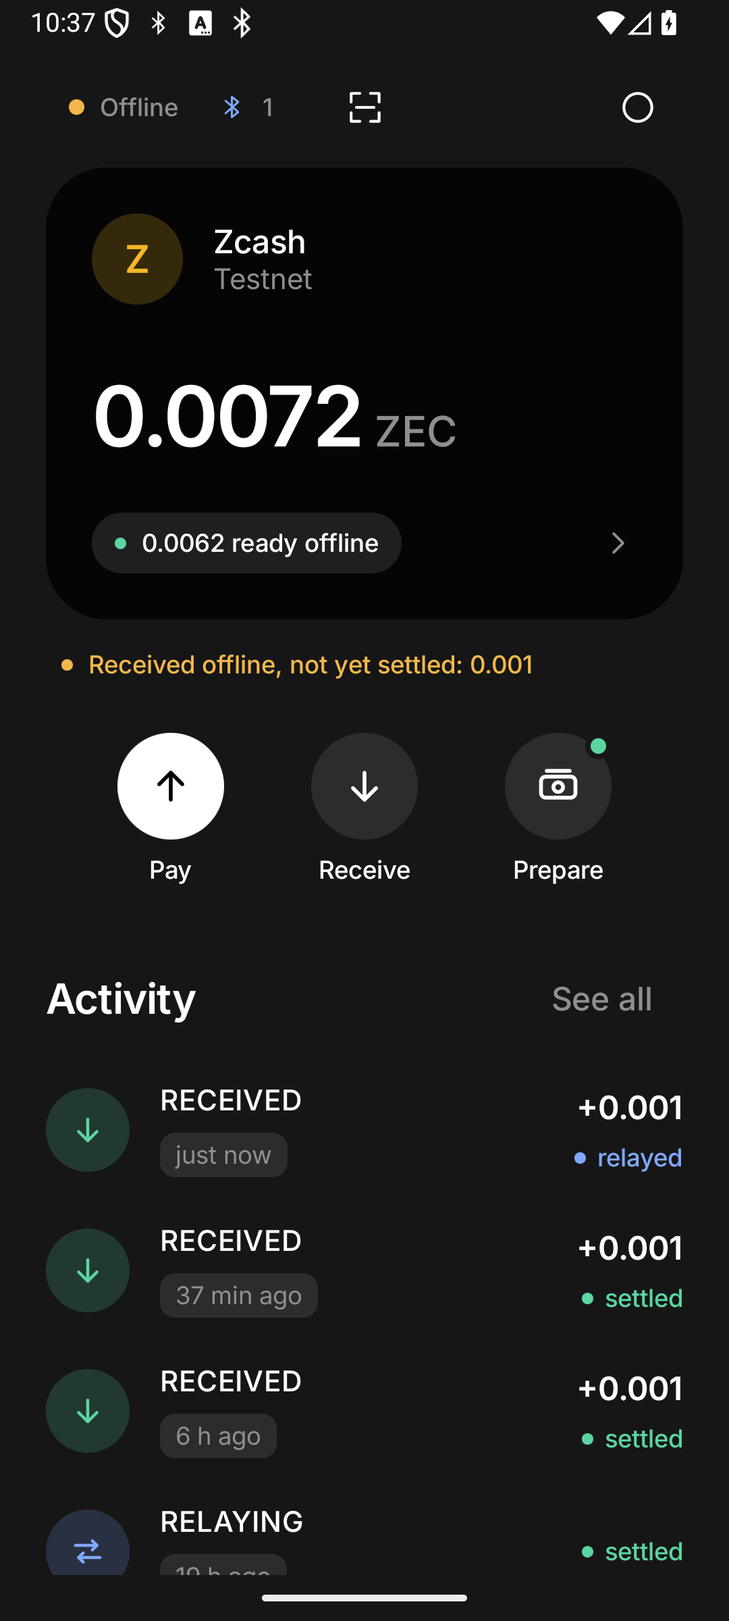
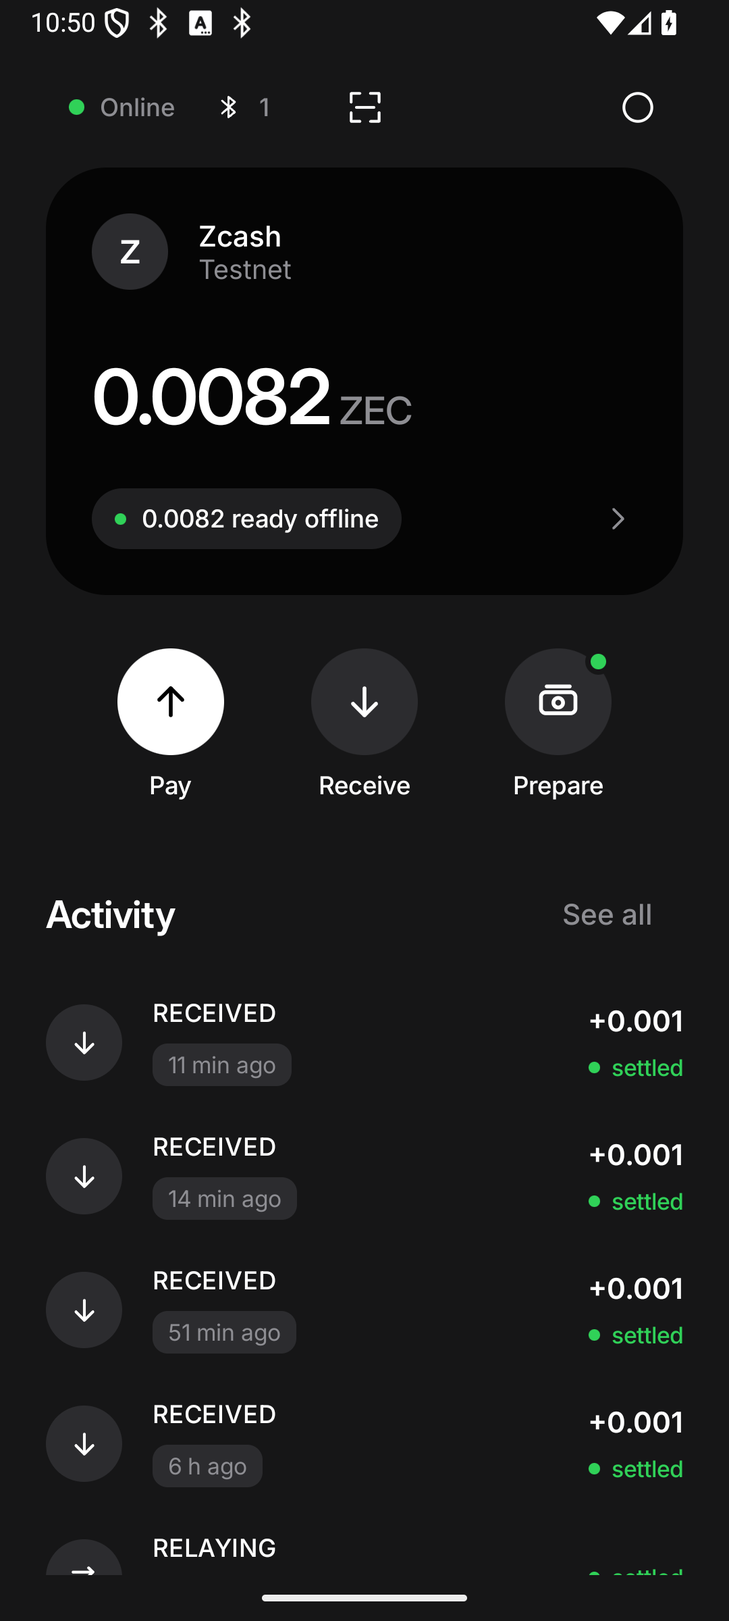
Phase 5: smaller type, Inter Display, two-colour palette, spaced keypad
Amounts 48/40, titles 28/20, text 15/14/13/12. Large sizes use Inter's
display optical size (opsz 32). Only greys, white, one green, one red.
Pay doesn't scroll: the keypad spreads over the free height and the
button sits 24 dp above the nav bar. JVM 59/59, P2.G4 pass.

diff --git a/android/app/src/main/java/dev/offlinezec/wallet/ui/MainActivity.kt b/android/app/src/main/java/dev/offlinezec/wallet/ui/MainActivity.kt
@@ -193,7 +193,7 @@ fun SetupScreen(c: AppController) {
         Spacer(Modifier.height(8.dp))
         Text("Zcash that works\nwithout signal", style = MaterialTheme.typography.displaySmall)
         Text("Pay phone to phone, settle later.", style = MaterialTheme.typography.bodyLarge, color = Ink.dim)
-        FactPill(bg = Ink.card) { Dot(Ink.amber, 6.dp); Text("Testnet", style = MaterialTheme.typography.labelMedium) }
+        FactPill(bg = Ink.card) { Dot(Ink.dim, 6.dp); Text("Testnet", style = MaterialTheme.typography.labelMedium) }
         Spacer(Modifier.height(32.dp))
         if (!restoring) {
             PrimaryButton("Create wallet", { c.createWallet() }, Modifier.testTag("create_wallet"))
@@ -259,7 +259,7 @@ fun syncText(s: SyncInfo): String = when {
 fun isOffline(s: SyncInfo) = s.networkHeight == null || s.status == "DISCONNECTED"
 
 /** "0.0036 ZEC" with the unit smaller and grey. */
-fun zecText(zats: Long, unitSize: Int = 22): AnnotatedString = buildAnnotatedString {
+fun zecText(zats: Long, unitSize: Int = 20): AnnotatedString = buildAnnotatedString {
     append(zec(zats))
     withStyle(SpanStyle(color = Ink.dim, fontSize = unitSize.sp, fontWeight = FontWeight.Medium, letterSpacing = 0.sp)) { append(" ZEC") }
 }
@@ -288,9 +288,9 @@ fun HomeScreen(c: AppController, go: (Screen, Boolean) -> Unit) {
         val incoming = incomingUnsettled(received)
         if (incoming > 0) Row(Modifier.padding(start = 8.dp, top = 16.dp), verticalAlignment = Alignment.CenterVertically,
             horizontalArrangement = Arrangement.spacedBy(8.dp)) {
-            Dot(Ink.amber, 6.dp)
+            Dot(Ink.text, 6.dp)
             Text("Received offline, not yet settled: ${zec(incoming)}", style = MaterialTheme.typography.labelMedium,
-                color = Ink.amber, modifier = Modifier.testTag("balance_incoming"))
+                color = Ink.dim, modifier = Modifier.testTag("balance_incoming"))
         }
         val lost = received.filter { it.conflicted }
         if (lost.isNotEmpty()) FactPill(Modifier.fillMaxWidth().padding(top = 8.dp), bg = Ink.redCard) {
@@ -305,8 +305,8 @@ fun HomeScreen(c: AppController, go: (Screen, Boolean) -> Unit) {
             ActionButton(Glyph.Up, "Pay", { c.clearPay(); go(Screen.Pay, false) }, Modifier.testTag("nav_pay"), primary = true)
             ActionButton(Glyph.Down, "Receive", { c.resetReceive(); go(Screen.Receive, false) }, Modifier.testTag("nav_receive"))
             val badge = when (val p = prep) {
-                is PrepareStatus.Waiting -> Ink.amber
-                is PrepareStatus.Idle -> if (p.ready) Ink.green else if (p.notes.isEmpty()) null else Ink.amber
+                is PrepareStatus.Waiting -> Ink.text
+                is PrepareStatus.Idle -> if (p.ready) Ink.green else if (p.notes.isEmpty()) null else Ink.text
                 null -> null
             }
             ActionButton(Glyph.Notes, "Prepare", { go(Screen.Prepare, false) }, Modifier.testTag("nav_prepare"), badge = badge)
@@ -332,12 +332,12 @@ fun TopBar(c: AppController, sync: SyncInfo, go: (Screen, Boolean) -> Unit) {
     Box(Modifier.fillMaxWidth().height(64.dp)) {
         Row(Modifier.align(Alignment.CenterStart).padding(start = 12.dp), verticalAlignment = Alignment.CenterVertically,
             horizontalArrangement = Arrangement.spacedBy(8.dp)) {
-            Dot(if (isOffline(sync)) Ink.amber else Ink.green, 8.dp)
+            Dot(if (isOffline(sync)) Ink.dim else Ink.green, 8.dp)
             Text(syncText(sync), style = MaterialTheme.typography.labelMedium, color = Ink.dim, maxLines = 1, modifier = Modifier.testTag("sync_status"))
             // Bluetooth relay, as a glyph and the number of phones in reach.
             val on = m.permitted && m.bluetooth && m.running
             Spacer(Modifier.width(4.dp))
-            LineIcon(Glyph.Bluetooth, size = 16.dp, color = if (on) Ink.blue else Ink.faint)
+            LineIcon(Glyph.Bluetooth, size = 16.dp, color = if (on) Ink.text else Ink.faint)
             Text(if (on) "${m.peers}" else "off", style = MaterialTheme.typography.labelMedium, color = Ink.dim, modifier = Modifier.testTag("mesh_status"))
         }
         IconButton(Glyph.Scan, { c.clearPay(); go(Screen.Pay, true) }, tag = "nav_scan", filled = false, modifier = Modifier.align(Alignment.Center))
@@ -351,7 +351,7 @@ fun HeroCard(sync: SyncInfo, split: BalanceSplit) {
     var open by rememberSaveable { mutableStateOf(false) }
     DarkCard(color = Ink.black, padding = 24.dp, gap = 0.dp, onClick = { open = !open }) {
         Row(verticalAlignment = Alignment.CenterVertically, horizontalArrangement = Arrangement.spacedBy(16.dp)) {
-            ZecAvatar(48.dp)
+            ZecAvatar(40.dp)
             Column {
                 Text("Zcash", style = MaterialTheme.typography.titleMedium)
                 Text("Testnet", style = MaterialTheme.typography.bodyMedium, color = Ink.dim)
@@ -434,12 +434,7 @@ fun FilterChips(filter: PaymentFilter, set: (PaymentFilter) -> Unit) {
 
 fun PaymentRow.glyph() = when (direction) { Direction.SENT -> Glyph.Up; Direction.RECEIVED -> Glyph.Down; Direction.RELAY -> Glyph.Relay }
 
-fun PaymentRow.tint() = when {
-    status == PayStatus.CONFLICTED || status == PayStatus.REJECTED -> Ink.red
-    direction == Direction.SENT -> Ink.text
-    direction == Direction.RECEIVED -> Ink.green
-    else -> Ink.blue
-}
+fun PaymentRow.tint() = if (status == PayStatus.CONFLICTED || status == PayStatus.REJECTED) Ink.red else Ink.text
 
 fun PaymentRow.title() = when (direction) {
     Direction.SENT -> "Sent"
@@ -454,7 +449,7 @@ fun PaymentRow.value(): String? = amount?.let { (if (direction == Direction.SENT
 fun PaymentListRow(r: PaymentRow, now: Long, modifier: Modifier = Modifier, ageTag: String? = null, onClick: (() -> Unit)? = null) {
     val bad = r.status == PayStatus.CONFLICTED || r.status == PayStatus.REJECTED
     ListRow(
-        avatar = { Avatar(r.glyph(), r.tint(), 44.dp) },
+        avatar = { Avatar(r.glyph(), r.tint(), 40.dp) },
         title = r.title(), tag = ago(r.since, now), tagModifier = if (ageTag != null) Modifier.testTag(ageTag) else Modifier,
         value = r.value(), valueColor = if (bad) Ink.red else Ink.text,
         status = { StatusText(r.status, Modifier.testTag("status_${r.txid.take(16)}")) },
@@ -486,7 +481,7 @@ fun PrepareScreen(c: AppController, back: () -> Unit) {
                 is PrepareStatus.Idle -> {
                     Text(zecText(p.notes.sumOf { it.value }), style = MaterialTheme.typography.displayMedium, maxLines = 1)
                     Row(verticalAlignment = Alignment.CenterVertically, horizontalArrangement = Arrangement.spacedBy(8.dp)) {
-                        val color = if (p.ready) Ink.green else if (p.notes.isEmpty()) Ink.dim else Ink.amber
+                        val color = if (p.ready) Ink.green else Ink.dim
                         Dot(color, 6.dp)
                         Text(if (p.ready) "Ready" else if (p.notes.isEmpty()) "Not prepared" else "Confirming",
                             style = MaterialTheme.typography.titleSmall, color = color, modifier = Modifier.testTag("prepare_state"))
@@ -509,7 +504,7 @@ fun PrepareScreen(c: AppController, back: () -> Unit) {
                         Text("${zec(value)} ZEC × ${notes.size}", style = MaterialTheme.typography.titleMedium,
                             modifier = Modifier.weight(1f).testTag("denomination"))
                         Text(if (ok) "ready" else "$conf/$SPEND_CONFIRMATIONS", style = MaterialTheme.typography.labelMedium,
-                            color = if (ok) Ink.green else Ink.amber)
+                            color = if (ok) Ink.green else Ink.dim)
                     }
                 }
             }
@@ -561,7 +556,7 @@ fun PayScreen(c: AppController, scanFirst: Boolean, prepare: () -> Unit, back: (
     val ready = balanceSplit(notes, sync.networkHeight ?: sync.scannedHeight).available
     val zats = parseZec(amount)
     val building = pay is PayState.Building
-    Page(gap = if (small) 8.dp else 16.dp) {
+    Page(scroll = false, gap = if (small) 8.dp else 16.dp) {
         SheetTop(back) {
             if (!withMemo) IconButton(Glyph.Memo, { withMemo = true }, tag = "pay_add_memo", filled = false)
         }
@@ -575,7 +570,7 @@ fun PayScreen(c: AppController, scanFirst: Boolean, prepare: () -> Unit, back: (
                     maxLines = 1, color = if (amount.isEmpty()) Ink.faint else if (over) Ink.red else Ink.text, modifier = Modifier.testTag("pay_amount"),
                 )
                 val (sub, color) = when {
-                    ready == 0L -> "Nothing ready offline" to Ink.amber
+                    ready == 0L -> "Nothing ready offline" to Ink.dim
                     over -> "Only ${zec(ready)} ready offline" to Ink.red
                     caps.enabled -> "${zec(ready)} ready · limit ${zec(caps.perPayment)}" to Ink.dim
                     else -> "${zec(ready)} ready offline" to Ink.dim
@@ -586,7 +581,7 @@ fun PayScreen(c: AppController, scanFirst: Boolean, prepare: () -> Unit, back: (
         }
         if (scanning) {
             DarkCard(color = Ink.black, border = Ink.line, padding = 8.dp) {
-                CameraScanner(if (small) 220 else 280, inverted = true) { text ->
+                CameraScanner(if (small) 180 else 280, inverted = true) { text ->
                     val addr = text.removePrefix("zcash:").substringBefore('?')
                     if (addr.startsWith("utest") || addr.startsWith("u1")) {
                         to = addr
@@ -595,6 +590,7 @@ fun PayScreen(c: AppController, scanFirst: Boolean, prepare: () -> Unit, back: (
                 }
             }
             TextButton("Cancel", { scanning = false }, Modifier.align(Alignment.CenterHorizontally))
+            Spacer(Modifier.weight(1f))
         } else {
             // The recipient, styled as the design's bank row.
             Row(Modifier.fillMaxWidth(), verticalAlignment = Alignment.CenterVertically, horizontalArrangement = Arrangement.spacedBy(16.dp)) {
@@ -620,7 +616,7 @@ fun PayScreen(c: AppController, scanFirst: Boolean, prepare: () -> Unit, back: (
                 OutlinedTextField(memo, { memo = it }, placeholder = { Text("Memo") }, shape = RoundedCornerShape(16.dp),
                     colors = fieldColors(), singleLine = true, modifier = Modifier.fillMaxWidth().testTag("pay_memo"))
             }
-            Keypad({ k -> amount = keypadInput(amount, k) }, keyHeight = if (small) 48.dp else 64.dp)
+            Keypad({ k -> amount = keypadInput(amount, k) }, Modifier.weight(1f))
         }
         val canPay = !building && zats != null && to.isNotBlank() && zats <= ready
         PrimaryButton(if (building) "Signing…" else "Pay", { c.payOffline(to, zats!!, memo.ifBlank { null }) }, Modifier.testTag("pay_go"), enabled = canPay)
@@ -628,7 +624,7 @@ fun PayScreen(c: AppController, scanFirst: Boolean, prepare: () -> Unit, back: (
         if (building) LinearProgressIndicator(Modifier.fillMaxWidth().clip(Pill), color = Ink.text, trackColor = Ink.raised)
         if (pay is PayState.Failed) Text((pay as PayState.Failed).error, style = MaterialTheme.typography.bodySmall, color = Ink.red,
             modifier = Modifier.testTag("pay_error"))
-        Spacer(Modifier.height(8.dp))
+        Spacer(Modifier.height(if (small) 8.dp else 24.dp))
     }
 }
 
@@ -647,7 +643,7 @@ fun PaymentQr(c: AppController, p: PayState.Ready, back: () -> Unit) {
     Page(bg = Ink.black, gap = 16.dp) {
         SheetTop({ c.clearPay(); back() })
         Column(Modifier.fillMaxWidth(), horizontalAlignment = Alignment.CenterHorizontally, verticalArrangement = Arrangement.spacedBy(8.dp)) {
-            Text(zecText(p.payment.amount, 22), style = MaterialTheme.typography.displayMedium, modifier = Modifier.testTag("pay_summary"))
+            Text(zecText(p.payment.amount), style = MaterialTheme.typography.displayMedium, modifier = Modifier.testTag("pay_summary"))
             Text("fee ${zec(p.payment.fee)} · ${shortTxid(p.payment.txid)}", style = MaterialTheme.typography.bodySmall, modifier = Modifier.testTag("pay_txid"))
         }
         DarkCard(color = Ink.black, border = Ink.line, padding = 24.dp) {
@@ -687,7 +683,7 @@ fun ReceiveScreen(c: AppController, back: () -> Unit) {
                     Text(shortAddress(w.address), style = MaterialTheme.typography.titleMedium, modifier = Modifier.testTag("address"))
                     LineIcon(Glyph.ChevronDown, size = 16.dp, color = Ink.dim)
                 }
-                if (full && !scan) Text(w.address, fontFamily = FontFamily.Monospace, fontSize = 13.sp, color = Ink.dim, modifier = Modifier.padding(horizontal = 8.dp))
+                if (full && !scan) Text(w.address, fontFamily = FontFamily.Monospace, fontSize = 12.sp, color = Ink.dim, modifier = Modifier.padding(horizontal = 8.dp))
                 DarkCard(color = Ink.black, border = Ink.line, padding = if (scan) 8.dp else 32.dp) {
                     Box(Modifier.fillMaxWidth(), contentAlignment = Alignment.Center) {
                         if (!scan) AddressQr(w.address, 240.dp)
@@ -720,7 +716,7 @@ fun ReceiveScreen(c: AppController, back: () -> Unit) {
                 Column(Modifier.fillMaxWidth(), horizontalAlignment = Alignment.CenterHorizontally, verticalArrangement = Arrangement.spacedBy(16.dp)) {
                     Avatar(Glyph.Check, Ink.green, 72.dp)
                     Text(zecText(s.payment.amount), style = MaterialTheme.typography.displayMedium, modifier = Modifier.testTag("received_amount"))
-                    Text(receivedLabel(s.payment), style = MaterialTheme.typography.bodyMedium, color = Ink.amber, modifier = Modifier.testTag("received_status"))
+                    Text(receivedLabel(s.payment), style = MaterialTheme.typography.bodyMedium, color = Ink.dim, modifier = Modifier.testTag("received_status"))
                     s.payment.memo?.let { Text("“$it”", style = MaterialTheme.typography.bodyLarge, textAlign = TextAlign.Center) }
                 }
                 s.warning?.let {

diff --git a/android/app/src/main/java/dev/offlinezec/wallet/ui/Components.kt b/android/app/src/main/java/dev/offlinezec/wallet/ui/Components.kt
@@ -7,6 +7,7 @@ import androidx.compose.foundation.border
 import androidx.compose.foundation.clickable
 import androidx.compose.foundation.layout.Arrangement
 import androidx.compose.foundation.layout.Box
+import androidx.compose.foundation.layout.BoxWithConstraints
 import androidx.compose.foundation.layout.Column
 import androidx.compose.foundation.layout.ColumnScope
 import androidx.compose.foundation.layout.Row
@@ -170,7 +171,7 @@ fun Chip(text: String, modifier: Modifier = Modifier, selected: Boolean = false,
 @Composable
 fun Tag(text: String, modifier: Modifier = Modifier, color: Color = Ink.dim, mono: Boolean = false) {
     Text(
-        text, color = color, fontSize = 13.sp, maxLines = 1,
+        text, color = color, fontSize = 12.sp, maxLines = 1,
         fontFamily = if (mono) FontFamily.Monospace else Inter,
         modifier = modifier.clip(RoundedCornerShape(8.dp)).background(Ink.raised).padding(horizontal = 8.dp, vertical = 4.dp),
     )
@@ -188,25 +189,26 @@ fun FactPill(modifier: Modifier = Modifier, bg: Color = Ink.card, content: @Comp
 @Composable
 fun Dot(color: Color, size: Dp = 7.dp) = Box(Modifier.size(size).clip(CircleShape).background(color))
 
-/** Round avatar: a tinted disc with a thin icon, like the design's token logos. */
+/** Round avatar: a neutral disc with a thin white icon; green or red only when the icon is a verdict. */
 @Composable
 fun Avatar(g: Glyph, tint: Color, size: Dp = 52.dp) {
-    Box(Modifier.size(size).clip(CircleShape).background(tint.copy(alpha = 0.18f)), contentAlignment = Alignment.Center) {
+    val bg = if (tint == Ink.text) Ink.raised else tint.copy(alpha = 0.16f)
+    Box(Modifier.size(size).clip(CircleShape).background(bg), contentAlignment = Alignment.Center) {
         LineIcon(g, size = size * 0.44f, color = tint, weight = 2f)
     }
 }
 
-/** The ZEC avatar: a yellow Z on a dark-yellow disc. */
+/** The ZEC avatar: a white Z on a dark disc. */
 @Composable
 fun ZecAvatar(size: Dp = 52.dp) {
-    Box(Modifier.size(size).clip(CircleShape).background(Ink.zec.copy(alpha = 0.2f)), contentAlignment = Alignment.Center) {
-        Text("Z", color = Ink.zec, fontFamily = Inter, fontWeight = FontWeight.SemiBold, fontSize = (size.value * 0.42f).sp)
+    Box(Modifier.size(size).clip(CircleShape).background(Ink.raised), contentAlignment = Alignment.Center) {
+        Text("Z", color = Ink.text, fontFamily = InterDisplay, fontWeight = FontWeight.SemiBold, fontSize = (size.value * 0.42f).sp)
     }
 }
 
 fun PayStatus.color(): Color = when (this) {
-    PayStatus.PENDING -> Ink.amber
-    PayStatus.RELAYED -> Ink.blue
+    PayStatus.PENDING -> Ink.dim
+    PayStatus.RELAYED -> Ink.text
     PayStatus.SETTLED -> Ink.green
     PayStatus.CONFLICTED, PayStatus.REJECTED -> Ink.red
 }
@@ -216,7 +218,7 @@ fun PayStatus.color(): Color = when (this) {
 fun StatusText(s: PayStatus, modifier: Modifier = Modifier) {
     Row(modifier, verticalAlignment = Alignment.CenterVertically, horizontalArrangement = Arrangement.spacedBy(6.dp)) {
         Dot(s.color(), 6.dp)
-        Text(s.chip, color = s.color(), fontSize = 13.sp, fontWeight = FontWeight.Medium, fontFamily = Inter)
+        Text(s.chip, color = s.color(), fontSize = 12.sp, fontWeight = FontWeight.Medium, fontFamily = Inter)
     }
 }
 
@@ -293,11 +295,15 @@ fun AddressQr(text: String, size: Dp, tag: String = "qr") {
     }
 }
 
-/** 1–9 . 0 ‹, light numerals as in the design. Keys carry testTags key_0…key_9, key_dot, key_back. */
+/**
+ * 1–9 . 0 ‹, light numerals as in the design. Keys carry testTags key_0…key_9, key_dot, key_back.
+ * Give it the free height (a weight): rows spread evenly over it, keys at most [maxKeyHeight] tall.
+ */
 @Composable
-fun Keypad(onKey: (Char) -> Unit, modifier: Modifier = Modifier, keyHeight: Dp = 56.dp) {
+fun Keypad(onKey: (Char) -> Unit, modifier: Modifier = Modifier, maxKeyHeight: Dp = 72.dp) = BoxWithConstraints(modifier.fillMaxWidth()) {
     val rows = listOf("123", "456", "789", ".0<")
-    Column(modifier.fillMaxWidth()) {
+    val keyHeight = if (maxHeight == Dp.Infinity) maxKeyHeight else minOf(maxHeight / 4, maxKeyHeight)
+    Column(Modifier.fillMaxWidth().let { if (maxHeight == Dp.Infinity) it else it.fillMaxSize() }, verticalArrangement = Arrangement.SpaceEvenly) {
         rows.forEach { r ->
             Row(Modifier.fillMaxWidth()) {
                 r.forEach { k ->
@@ -307,7 +313,7 @@ fun Keypad(onKey: (Char) -> Unit, modifier: Modifier = Modifier, keyHeight: Dp =
                         contentAlignment = Alignment.Center,
                     ) {
                         if (k == '<') LineIcon(Glyph.ChevronLeft, size = 24.dp)
-                        else Text(k.toString(), fontSize = 28.sp, fontFamily = Inter, fontWeight = FontWeight.Normal, color = Ink.text)
+                        else Text(k.toString(), fontSize = 26.sp, fontFamily = InterDisplay, fontWeight = FontWeight.Normal, color = Ink.text)
                     }
                 }
             }

diff --git a/android/app/src/main/java/dev/offlinezec/wallet/ui/Theme.kt b/android/app/src/main/java/dev/offlinezec/wallet/ui/Theme.kt
@@ -15,8 +15,7 @@ import androidx.compose.ui.unit.sp
 import dev.offlinezec.wallet.R
 
 /**
- * The design's palette: a dark grey page, a deeper black for the hero card, a lighter grey for
- * sheet cards (the amount card), hairline outlines, white text and quiet grey secondary text.
+ * The palette: greys and white, one green for settled and one red for problems. No other hues.
  */
 object Ink {
     val page = Color(0xFF161617)
@@ -28,20 +27,22 @@ object Ink {
     val text = Color(0xFFFFFFFF)
     val dim = Color(0xFF8E8E93)
     val faint = Color(0xFF5A5A5F)
-    val red = Color(0xFFFF6B4A)
-    val redCard = Color(0xFF2A1210)
-    val green = Color(0xFF5BD6A0)
-    val amber = Color(0xFFF2B84B)
-    val blue = Color(0xFF7FA8FF)
-    /** Zcash yellow, for the logo and its avatar. */
-    val zec = Color(0xFFF4B728)
+    val red = Color(0xFFFF453A)
+    val redCard = Color(0xFF2A1211)
+    val green = Color(0xFF30D158)
 }
 
 @OptIn(ExperimentalTextApi::class)
-private fun inter(w: Int) = Font(R.font.inter, FontWeight(w), variationSettings = FontVariation.Settings(FontVariation.weight(w)))
+private fun inter(w: Int, opsz: Float) = Font(
+    R.font.inter, FontWeight(w),
+    variationSettings = FontVariation.Settings(FontVariation.weight(w), FontVariation.Setting("opsz", opsz)),
+)
 
-/** Inter, the design's typeface (variable font in res/font). Three weights only. */
-val Inter = FontFamily(inter(400), inter(500), inter(600))
+/** Inter's text cut (optical size 14), for 17 sp and under. Three weights only. */
+val Inter = FontFamily(inter(400, 14f), inter(500, 14f), inter(600, 14f))
+
+/** Inter Display (optical size 32): the tighter, finer cut for titles and amounts. */
+val InterDisplay = FontFamily(inter(400, 32f), inter(500, 32f), inter(600, 32f))
 
 private val scheme = darkColorScheme(
     primary = Ink.text,
@@ -62,28 +63,28 @@ private val scheme = darkColorScheme(
     error = Ink.red,
     onError = Color.Black,
     errorContainer = Ink.redCard,
-    onErrorContainer = Color(0xFFFFD6CC),
+    onErrorContainer = Color(0xFFF2F2F7),
 )
 
-private fun t(size: Int, w: FontWeight = FontWeight.Normal, track: Double = 0.0, color: Color = Color.Unspecified) =
-    TextStyle(fontFamily = Inter, fontSize = size.sp, fontWeight = w, letterSpacing = track.sp, color = color)
+private fun t(size: Int, w: FontWeight = FontWeight.Normal, track: Double = 0.0, color: Color = Color.Unspecified, family: FontFamily = Inter) =
+    TextStyle(fontFamily = family, fontSize = size.sp, fontWeight = w, letterSpacing = track.sp, color = color)
 
-/** One tight scale (34 / 22 / 17 / 15 / 13) plus two display sizes for money. */
+/** Compact, like the reference: money large (48 / 40), titles 28 and 20, text 15 / 14 / 13 / 12. */
 private val type = Typography(
-    displayLarge = t(56, FontWeight.SemiBold, -1.6),
-    displayMedium = t(44, FontWeight.SemiBold, -1.2),
-    displaySmall = t(34, FontWeight.SemiBold, -0.8),
-    headlineLarge = t(34, FontWeight.SemiBold, -0.8),
-    headlineMedium = t(22, FontWeight.SemiBold, -0.3),
-    titleLarge = t(17, FontWeight.SemiBold),
-    titleMedium = t(17, FontWeight.Medium),
-    titleSmall = t(15, FontWeight.Medium),
-    bodyLarge = t(17),
-    bodyMedium = t(15),
-    bodySmall = t(13, color = Ink.dim),
-    labelLarge = t(17, FontWeight.SemiBold),
+    displayLarge = t(48, FontWeight.SemiBold, -1.0, family = InterDisplay),
+    displayMedium = t(40, FontWeight.SemiBold, -0.8, family = InterDisplay),
+    displaySmall = t(28, FontWeight.SemiBold, -0.4, family = InterDisplay),
+    headlineLarge = t(28, FontWeight.SemiBold, -0.4, family = InterDisplay),
+    headlineMedium = t(20, FontWeight.SemiBold, -0.2, family = InterDisplay),
+    titleLarge = t(15, FontWeight.SemiBold),
+    titleMedium = t(15, FontWeight.Medium),
+    titleSmall = t(13, FontWeight.Medium, 0.2),
+    bodyLarge = t(15),
+    bodyMedium = t(14),
+    bodySmall = t(12, color = Ink.dim),
+    labelLarge = t(16, FontWeight.SemiBold),
     labelMedium = t(13, FontWeight.Medium),
-    labelSmall = t(13, FontWeight.Medium),
+    labelSmall = t(12, FontWeight.Medium),
 )
 
 @Composable

diff --git a/docs/PROGRESS.md b/docs/PROGRESS.md
@@ -94,6 +94,7 @@ One row per test run that counts toward a goal; newest first. Failed runs are re
 
 | Date | Test | Result | Evidence |
 |---|---|---|---|
+| 2026-10-23 | Regression after the type/colour/keypad follow-up (no new test ID) | pass (JVM, emulator) | `stress/p5/unit.sh` PASS 59/59; `stress/p2/p2g4_pay_receive.sh emulator-5556 emulator-5558 0.001` T3 + T4 pass (28 s, txid `6b44ff21…`, receiver "0.001 ZEC" / "received, not yet settled"). Pay button on screen at 720×1280 @ 320 dpi and 1080×2400 @ 450 dpi (screenshots) |
 | 2026-10-23 | Regression after the third UI pass (no new test ID) | pass (JVM, emulator) | Final build: `stress/p5/unit.sh` PASS 59/59. `stress/p2/p2g4_pay_receive.sh emulator-5556 emulator-5558 0.001`: T3 + T4 pass through the redone Pay screen (paid in 33 s, txid `689b9eef…`; notes spent-offline when the QR first showed; receiver screen "0.001 ZEC" / "received, not yet settled"). An earlier run on the build before the last cosmetic tweaks also passed (29 s, txid `8f8bcf7a…`). nav_pay/receive/prepare/payments on Home's first screen and pay_go on screen at 720×1280 @ 320 dpi (checked by screenshot). Log: `stress/p2/logs/p2g4-emulator-5556-emulator-5558.log`; screenshots `docs/design/after/`, `docs/design/before_after.png` |
 | 2026-10-23 | Regression after the second restyle (no new test ID) | pass (JVM, emulator) | `stress/p5/unit.sh` 59/59 (new `StyledQrTest`: the light-on-dark address QR decodes through ZXing inverted, at 400 and 720 px). `stress/p2/p2g4_pay_receive.sh emulator-5556 emulator-5558 0.001`: T3 + T4 pass through the new Pay screen (txid `67227381…`). `stress/p5/p5g1t2_day_old.sh emulator-5556` on that payment: rows OK in run A (relayed, "1 d 0 h ago", Show QR); run A's Home check failed only because the online phone's sync line moved a block (the script now ignores that line); in run B Home was static but the payment had just been mined, so its row was correctly "settled" without a QR button. Not counted as a new P5.G1.T2 pass (the counted run is 5558's). |
 | 2026-10-23 | P5.G3.T1 | pass (emulator, run 3) | `stress/p5/p5g3t1_seed_warning.sh emulator-5556` (app data tarred to `wallets/emu-backup/` first; refuses while the phone has unsettled own payments): wipe, restore the same seed (hook `RESTORE`, the restore screen's code path) → "Is this seed on another phone?" on screen, still there after Back, Home not reachable behind it; gone only after "I understand"; same address after restore; no warning while online. Wi-Fi/data off → "You're offline: one phone per seed", same checks; back online and offline again → no third warning. Runs 1–2 failed on the harness only: the wiped app's Bluetooth permission prompt sat on top of the warning (now granted before launch, as a returning user would have), a `None`/'' mix-up, and a run killed after the script was edited mid-run. Payment records put back afterwards. Log: `stress/p5/logs/p5g3t1-emulator-5556.log`, screenshots `docs/design/after/seed_warning_*.png` |
@@ -206,6 +207,7 @@ Choices that change the plan, a pass criterion, or the spec. Newest first.
 - **2026-10-21** Phase 3 (Bluetooth mesh) built and Gate P3 passed in emulator form, 5/5. Every phone is a GATT server and client: chunked frames with SHA-256, HELLO with app id / protocol version / network, INV then push of what the peer lacks; relays verify proofs in `:core` before storing; persistent queue de-duplicated by txid with a 6-hop limit; connectivity watcher broadcasts on any network; foreground service keeps it going in Doze and after reboot. Bugs found by the tests: a stale network set kept the app "online" in airplane mode; a second lightwalletd "already mined" text; harness `pipefail` traps twice. Emulator Bluetooth (netsim) degrades after dozens of fast radio cycles, so the gate toggles Wi-Fi/data instead of airplane mode. ⚠ Restarting the emulators lost 5554's and 5556's Phase 2 testnet wallets (quick-boot snapshot + `-no-snapshot-save`); `emulators.sh` now cold-boots; new A funded from the desktop copy of the old A seed.
 | Date | Decision | Why |
 |---|---|---|
+| 2026-10-23 | Third pass, follow-up on the user's notes ("text still too large", "font doesn't match", "why orange", keypad crowding the nav bar): compact scale (amounts 48/40, titles 28/20, text 15/14/13/12); Inter's optical-size axis now set: Display cut (opsz 32) for titles, amounts and keypad, text cut (opsz 14) below. Until now every size rendered with the text cut. Palette: greys + white, one green (settled), one true red (#FF453A); amber, yellow and blue removed, avatars neutral. Pay no longer scrolls: the keypad spreads evenly over the free height (keys ≤ 72 dp) and Pay sits 24 dp above the nav bar | User feedback on the third pass |
 | 2026-10-23 | Third UI pass (HIG + reference, copy cut): one tight type scale (34/22/17/15/13 + 56/44 for money), three Inter weights, 8 pt grid with 24 dp gutters, 56 dp buttons, 48 dp icon targets. Home = top bar (one connection word, Bluetooth peers, scan, profile) + black hero (coin, total, "ready offline" pill; tap for confirming / change due) + three round actions Pay / Receive / Prepare + "Activity · See all" (`nav_payments`) + rows (title over age, amount over one status word). Relay card, tiles, testnet pill and block heights removed from Home. Pay: memo is a pencil icon, the button always says "Pay"; the only hint is one sub line under the amount (red when over what's ready). Payment QR: amount, QR, one fee/txid line, "Show the receiver". Receive: Copy primary, "Scan a payment" text button. Payments rows: the label only when it adds to the status (pending, conflicted), txid and hops on tap, "Show QR". Prepare ("Offline cash") and Limits: one line each; limit fields show when limits are on. Seed warning: one sentence. All testTags and parsed texts kept | User rejected two passes: too much text, didn't follow design rules or the reference. Review: side-session notes `ui-review.md` |
 | 2026-10-23 | Second restyle, closer to the user's reference: Inter typeface (`res/font/inter.ttf`, OFL, from Google Fonts), thin line icons drawn in code, Home = minimal top bar (status dot, scan-to-pay, profile → limits) + black hero card + Prepare/Payments tiles + token-style activity rows with filter chips; Pay = lighter amount sheet + bank-style "Send to" row + light keypad; Receive = outlined black card with a light-on-dark dotted address QR and logo, big centred title, Scan / Copy. The animated payment QR stays black on white (fastest to read). The app's address scanner also reads inverted codes | User feedback: the first pass "doesn't look like a premium money app" and didn't follow the design |
 | 2026-10-23 | Phase 5 restyle: Pay takes the amount on a keypad (no text field), so `type_into <serial> pay_amount` in `stress/p2/lib.sh` now taps keys (`tap_keys`); "Broadcast now" moved off Home to Payments and shown in debug builds only (the app broadcasts by itself every 30 s when online); the address QR moved from Home to Receive. All testTags the scripts use kept, and the texts they parse (`balance_incoming`, `balance_conflicted`, `received_status`, `denomination`, `received_label_*`) kept word for word | The user's design reference; P2.G4 pay → receive re-run through the new UI to prove the helper |
@@ -253,3 +255,4 @@ Newest first.
 - **2026-10-19** Started P0.G1. Found devtool's `migration` command (Orchard → Ironwood) already plans note-split denominations and pre-signs transactions with deferred anchors: a candidate to reuse for P1.G3 and the v6 stretch goal.
 - **2026-10-19** Removed schedule dates from the spec doc. Wrote PLAN.md (goals + stress tests per phase) and this tracker. Repo initialised. Environment: macOS arm64, Rust 1.84.0, Java 25, protoc 35.1, Android SDK at `~/Library/Android/sdk` (NDK 27.1 and 28.2, platform-tools present but `adb` not on PATH), `cargo-ndk` missing, 51 GB disk free.
 - **2026-10-23** Third UI pass: written review (side-session notes `ui-review.md`), then every screen redone to HIG and the reference: tight type scale, 8 pt grid, one card per screen, copy cut to one line or none, jargon (txids, block heights, hops, frame counts) behind a tap or gone. Home now hero + three round actions + Activity. JVM 59/59 and P2.G4 pass; phone-size screenshots and a three-way before / last pass / now sheet in `docs/design/`.
+- **2026-10-23** UI follow-up: smaller type, Inter Display for large sizes, two-colour palette (green/red on greys), evenly spaced keypad clear of the nav bar. Tests pass; screenshots and before/after sheet regenerated.
